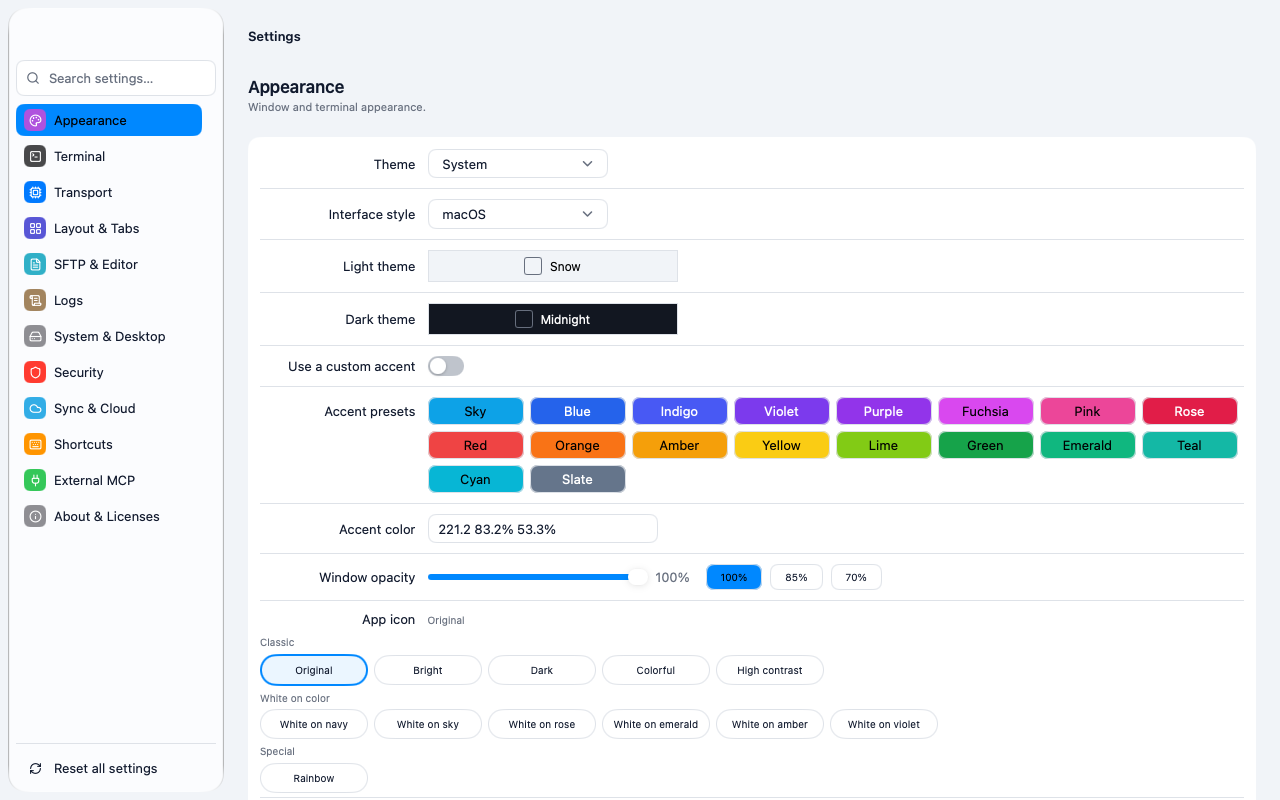
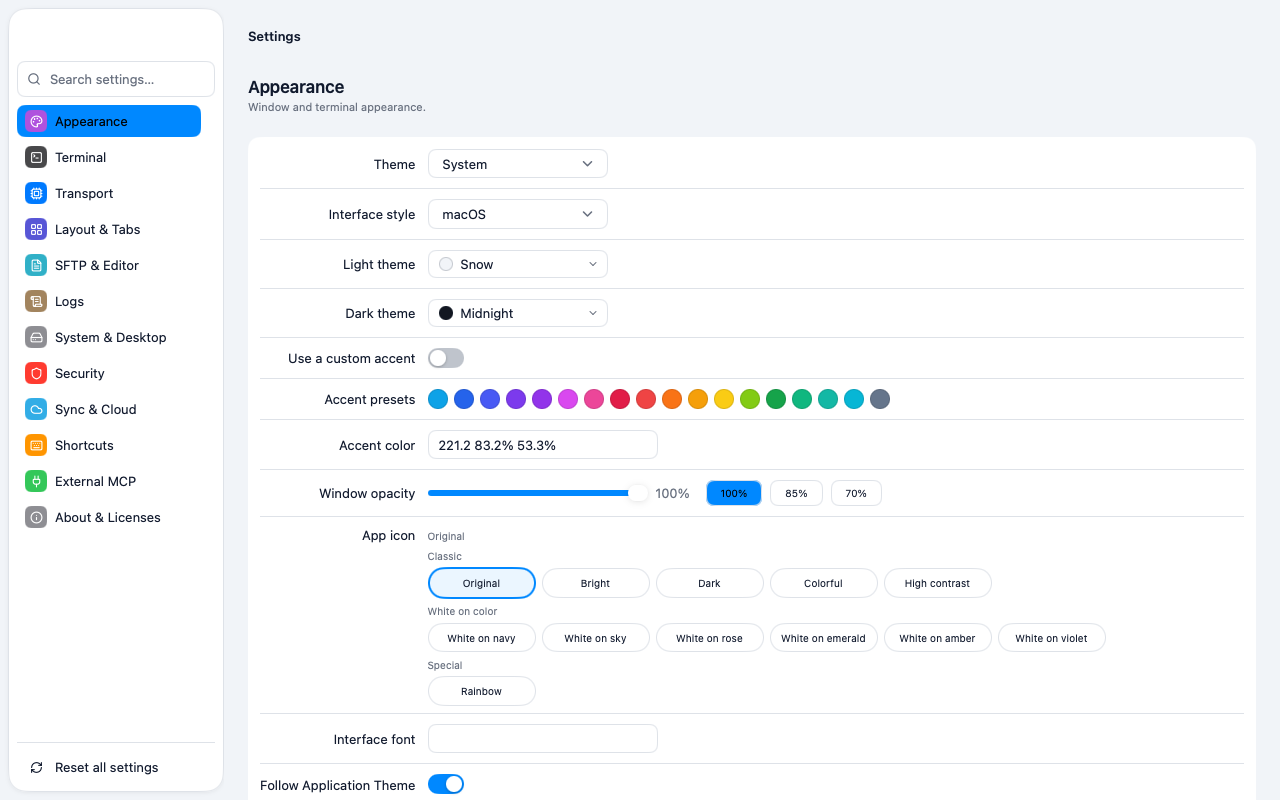
fix(ui): draw the macOS style on the theme's colors
In a real window the system vibrancy follows the desktop's light or dark
mode, never the theme preset, so a light theme on a dark desktop got a
muddy sidebar and a gray title bar. The macOS window and sidebar now take
the theme's colors: the sidebar is a raised panel with a hairline and a
soft shadow, and its selected row a soft shade.

Settings' Appearance area gets macOS pickers through kit: color dots for
the accent presets, popup buttons with a swatch for the theme presets,
and the app icon gallery inside the form's control column. Classic is
unchanged.

diff --git a/ui/settings/appearance.go b/ui/settings/appearance.go
@@ -135,16 +135,8 @@ func presetPicker(c *ui.Context, state *PreferencesState, m locales.Messages, t 
 		current := selected
 		sel := ui.SelectBase(c, &current)
 		preset, _ := findPreset(presets, selected)
-		sel.Trigger.Width(250).Height(32).Padding(4, 8).
-			Border(1, t.Border).Background(uitheme.PresetBackground(preset)).Children(func() {
-			ui.Row(c).Gap(8).AlignItems(ui.Center).Children(func() {
-				ui.Box(c).Width(18).Height(18).Radius(3).
-					Background(uitheme.PresetBackground(preset)).
-					Border(1, t.TextMuted)
-				ui.Text(c, preset.Name).FontSize(kit.M(c).Font.Callout).
-					TextColor(uitheme.PresetForeground(preset))
-			})
-		})
+		kit.PreviewTrigger(c, sel.Trigger, preset.Name,
+			uitheme.PresetBackground(preset), uitheme.PresetForeground(preset))
 		sel.Popup(func(panel ui.Element) {
 			panel.Padding(4).Background(t.Surface).Border(1, t.Border)
 			ui.Scroll(c).Height(260).Width(280).Children(func() {
@@ -202,15 +194,8 @@ func accentPicker(c *ui.Context, state *PreferencesState, m locales.Messages, t 
 				preset := preset
 				selected := settings.Appearance.AccentMode == domain.AccentCustom &&
 					strings.EqualFold(settings.Appearance.AccentColor, preset.HSL)
-				swatch := ui.Button(c, accentName(m, preset.Name)).Width(96).Height(28).
-					Background(uitheme.AccentColor(preset.HSL)).
-					TextColor(uitheme.AccentText(preset.HSL))
-				if selected {
-					swatch = swatch.Border(2, t.Text)
-				} else {
-					swatch = swatch.Border(1, t.Border)
-				}
-				if swatch.Clicked() {
+				if kit.Swatch(c, accentName(m, preset.Name), uitheme.AccentColor(preset.HSL),
+					uitheme.AccentText(preset.HSL), selected).Clicked() {
 					state.Update(func(s *domain.Settings) {
 						s.Appearance.AccentMode = domain.AccentCustom
 						s.Appearance.AccentColor = preset.HSL
@@ -263,24 +248,28 @@ func opacityPicker(c *ui.Context, state *PreferencesState, m locales.Messages, t
 // with its artwork above its name. Without artwork the tiles show names only.
 func iconPicker(c *ui.Context, state *PreferencesState, m locales.Messages, t *ui.Theme,
 	settings domain.Settings) {
-	fieldRow(c, state, m, t, domain.FieldAppIcon, m.SettingsAppIcon(), func() {
-		ui.Text(c, iconVariantName(m, settings.Appearance.AppIcon)).
-			FontSize(kit.M(c).Font.Caption).TextColor(t.TextMuted)
-	})
-	ui.Column(c).Gap(6).FillWidth().Children(func() {
-		for _, group := range domaintheme.IconGroupOrder() {
-			ui.Text(c, iconGroupName(m, group)).FontSize(kit.M(c).Font.Caption).TextColor(t.TextMuted)
-			ui.Row(c).Wrap().Gap(6).FillWidth().Children(func() {
-				for _, variant := range domaintheme.IconVariantsInGroup(group) {
-					variant := variant
-					if iconTile(c, t, iconVariantName(m, variant.ID), state.iconThumb(variant.ID),
-						variant.ID == settings.Appearance.AppIcon).Clicked() {
-						state.Update(func(s *domain.Settings) { s.Appearance.AppIcon = variant.ID })
-						c.Invalidate()
+	kit.FormRowDetail(c, m.SettingsAppIcon(), func() {
+		ui.Row(c).Gap(8).AlignItems(ui.Center).Children(func() {
+			ui.Text(c, iconVariantName(m, settings.Appearance.AppIcon)).
+				FontSize(kit.M(c).Font.Caption).TextColor(t.TextMuted)
+			resetField(c, state, m, domain.FieldAppIcon)
+		})
+	}, func() {
+		ui.Column(c).Gap(6).FillWidth().Children(func() {
+			for _, group := range domaintheme.IconGroupOrder() {
+				ui.Text(c, iconGroupName(m, group)).FontSize(kit.M(c).Font.Caption).TextColor(t.TextMuted)
+				ui.Row(c).Wrap().Gap(6).FillWidth().Children(func() {
+					for _, variant := range domaintheme.IconVariantsInGroup(group) {
+						variant := variant
+						if iconTile(c, t, iconVariantName(m, variant.ID), state.iconThumb(variant.ID),
+							variant.ID == settings.Appearance.AppIcon).Clicked() {
+							state.Update(func(s *domain.Settings) { s.Appearance.AppIcon = variant.ID })
+							c.Invalidate()
+						}
 					}
-				}
-			})
-		}
+				})
+			}
+		})
 	})
 }
 

diff --git a/ui/kit/panels.go b/ui/kit/panels.go
@@ -208,12 +208,8 @@ func groupedForm(c *ui.Context, title, description string, body func()) ui.Eleme
 		}
 		// The group stands out from the page by its fill: the surface's,
 		// or a shade where a preset's surface is the page's own color.
-		fill := t.Surface
-		if fill == t.Background {
-			fill = Muted(t)
-		}
 		ui.Column(c).FillWidth().Radius(M(c).Radius.Card-4).Padding(groupPaddingY, groupPaddingX).
-			Background(fill).Children(func() {
+			Background(Raised(t)).Children(func() {
 			groupRows = append(groupRows, 0)
 			defer func() { groupRows = groupRows[:len(groupRows)-1] }()
 			ui.Form(c, body).FillWidth().Gap(groupGap)
@@ -279,4 +275,73 @@ func FormToggle(c *ui.Context, label string, value *bool, accessory func()) bool
 		}
 	})
 	return changed
+}
+
+// FormRowDetail is a FormRow whose summary sits beside its label and whose
+// detail, such as a gallery of choices, follows it: below the row in
+// Classic, under the summary in the macOS style's control column, so the
+// grouped form keeps its two columns.
+func FormRowDetail(c *ui.Context, label string, summary, detail func()) {
+	if !CurrentStyle().Native() {
+		FormRow(c, label, summary)
+		detail()
+		return
+	}
+	FormRow(c, label, func() {
+		ui.Column(c).Gap(8).FillWidth().MinWidth(0).Children(func() {
+			summary()
+			detail()
+		})
+	})
+}
+
+// Swatch is one choice of a color, named name: a labeled button in that
+// color in Classic, with text in its text color; a color dot in the macOS
+// style, as its accent picker, marked with a white dot when chosen.
+func Swatch(c *ui.Context, name string, color, text ui.Color, chosen bool) ui.Element {
+	t := c.Theme()
+	if !CurrentStyle().Native() {
+		swatch := ui.Button(c, name).Width(96).Height(28).Background(color).TextColor(text)
+		if chosen {
+			return swatch.Border(2, t.Text)
+		}
+		return swatch.Border(1, t.Border)
+	}
+	const size float32 = 20
+	swatch := ui.ButtonBase(c).Label(name).Tooltip(name).Size(size, size).Radius(M(c).Radius.Pill).
+		Background(color).Border(1, ui.RGB(0, 0, 0).Alpha(0.12)).Center().Shrink(0)
+	if swatch.Hovered() {
+		swatch.Border(2, color.Mix(t.Text, 0.3))
+	}
+	swatch.Children(func() {
+		if chosen {
+			ui.Box(c).Size(6, 6).Radius(M(c).Radius.Pill).Background(ui.RGB(255, 255, 255))
+		}
+	})
+	return swatch
+}
+
+// PreviewTrigger draws a popup's trigger that previews a palette: filled
+// with its background and named in its foreground in Classic; a plain popup
+// button with a dot of the background in the macOS style.
+func PreviewTrigger(c *ui.Context, trigger ui.Element, name string, background, foreground ui.Color) {
+	t := c.Theme()
+	if !CurrentStyle().Native() {
+		trigger.Width(250).Height(32).Padding(4, 8).Border(1, t.Border).Background(background).Children(func() {
+			ui.Row(c).Gap(8).AlignItems(ui.Center).Children(func() {
+				ui.Box(c).Width(18).Height(18).Radius(3).Background(background).Border(1, t.TextMuted)
+				ui.Text(c, name).FontSize(M(c).Font.Callout).TextColor(foreground)
+			})
+		})
+		return
+	}
+	trigger.Width(180).Height(M(c).Control.Regular).Padding(0, 8, 0, 10).Radius(M(c).Radius.Control).
+		Border(1, t.Border).Background(t.Surface).Children(func() {
+		ui.Row(c).FillWidth().Gap(8).AlignItems(ui.Center).Children(func() {
+			ui.Box(c).Size(14, 14).Radius(M(c).Radius.Pill).Background(background).
+				Border(1, t.Text.Alpha(0.2)).Shrink(0)
+			ui.Text(c, name).FontSize(M(c).Font.Body).TextColor(t.Text).SingleLine().Grow(1).MinWidth(0)
+			IconSized(c, icons.ChevronDown, M(c).Icon.Small).TextColor(t.TextMuted)
+		})
+	})
 }

diff --git a/ui/layout/layout_test.go b/ui/layout/layout_test.go
@@ -50,41 +50,33 @@ func TestWorkLayoutWithoutAPanelShowsOnlyThePanes(t *testing.T) {
 	}
 }
 
-// TestAVibrantMacOSWindowShowsItsMaterialBesideAnOpaquePage checks the
-// main window's frame over a vibrancy: the title bar is clear so the
-// window's material shows, while the page and a terminal stay opaque. A
-// Classic window, or one with no vibrancy, is opaque everywhere.
-func TestAVibrantMacOSWindowShowsItsMaterialBesideAnOpaquePage(t *testing.T) {
-	for _, tc := range []struct {
-		style   kit.Style
-		vibrant bool
-		clear   bool
-	}{
-		{kit.MacOS, true, true},
-		{kit.MacOS, false, false},
-		{kit.Classic, true, false},
-	} {
-		for _, work := range []bool{false, true} {
-			kit.SetStyle(tc.style)
-			tt := ui.NewTester(func(c *ui.Context) {
-				WindowFrame(c, FrameOptions{Opaque: true, Vibrant: true},
-					func() { ui.Row(c).FillWidth().Height(36) },
-					func() {
-						if work {
-							WorkLayout(c, WorkSlots{Panes: func() { ui.Text(c, "panes") }})
-							return
-						}
-						HomeLayout(c, HomeSlots{Sidebar: func() {}, Content: func() { ui.Text(c, "page") }})
-					})
-			}, 800, 600)
-			tt.SetVibrancy(tc.vibrant)
-			tt.Frame()
-			img := tt.Image()
-			if bar := img.RGBAAt(400, 18).A; (bar == 0) != tc.clear {
-				t.Errorf("%s vibrancy=%v: title bar alpha %d, want clear=%v", tc.style.ID(), tc.vibrant, bar, tc.clear)
-			}
-			if page := img.RGBAAt(500, 400).A; page != 255 {
-				t.Errorf("%s vibrancy=%v work=%v: page alpha %d, want opaque", tc.style.ID(), tc.vibrant, work, page)
+// TestTheMainWindowIsOpaqueInEveryStyleEvenOverAVibrancy checks the main
+// window's frame: the title bar, the home page, and a terminal take the
+// theme's colors in both styles, whether or not the window has a vibrancy.
+func TestTheMainWindowIsOpaqueInEveryStyleEvenOverAVibrancy(t *testing.T) {
+	for _, style := range []kit.Style{kit.MacOS, kit.Classic} {
+		for _, vibrant := range []bool{false, true} {
+			for _, work := range []bool{false, true} {
+				kit.SetStyle(style)
+				tt := ui.NewTester(func(c *ui.Context) {
+					WindowFrame(c, FrameOptions{Opaque: true, Vibrant: true},
+						func() { ui.Row(c).FillWidth().Height(36) },
+						func() {
+							if work {
+								WorkLayout(c, WorkSlots{Panes: func() { ui.Text(c, "panes") }})
+								return
+							}
+							HomeLayout(c, HomeSlots{Sidebar: func() {}, Content: func() { ui.Text(c, "page") }})
+						})
+				}, 800, 600)
+				tt.SetVibrancy(vibrant)
+				tt.Frame()
+				img := tt.Image()
+				for _, at := range [][2]int{{400, 18}, {100, 300}, {500, 400}} {
+					if a := img.RGBAAt(at[0], at[1]).A; a != 255 {
+						t.Errorf("%s vibrancy=%v work=%v: alpha %d at %v, want opaque", style.ID(), vibrant, work, a, at)
+					}
+				}
 			}
 		}
 	}

diff --git a/ui/kit/style_test.go b/ui/kit/style_test.go
@@ -73,27 +73,30 @@ func contrastTo(a, b ui.Color) int {
 	return d(a.R, b.R) + d(a.G, b.G) + d(a.B, b.B)
 }
 
-func TestFillClearsTheWindowOverItsVibrancyOrPaintsItsBackground(t *testing.T) {
+// TestMacOSFillsTheWindowAndSidebarWithTheThemeOverAVibrancy keeps the
+// window's own colors: a system vibrancy follows the desktop's light or dark
+// mode, not the theme, so the macOS style never clears to it.
+func TestMacOSFillsTheWindowAndSidebarWithTheThemeOverAVibrancy(t *testing.T) {
 	SetStyle(MacOS)
 	t.Cleanup(func() { SetStyle(nil) })
-	under := ui.RGB(0, 255, 0)
 	theme := &ui.Theme{Background: ui.RGB(255, 0, 0), Surface: ui.RGB(0, 0, 255), Text: ui.RGB(0, 0, 0)}
-	for _, vibrant := range []bool{true, false} {
+	for _, tc := range []struct {
+		role SurfaceRole
+		want ui.Color
+	}{
+		{SurfaceWindow, theme.Background},
+		{SurfaceSidebar, theme.Surface},
+	} {
 		tt := ui.NewTester(func(c *ui.Context) {
 			c.SetTheme(theme)
-			c.Root().Background(under)
-			Fill(c, ui.Column(c).Size(40, 40), SurfaceWindow)
+			c.Root().Background(ui.RGB(0, 255, 0))
+			Fill(c, ui.Column(c).Size(40, 40), tc.role)
 		}, 80, 80)
-		tt.SetVibrancy(vibrant)
+		tt.SetVibrancy(true)
 		tt.Frame()
 		got := tt.Image().RGBAAt(20, 20)
-		want := theme.Background
-		if vibrant {
-			// Clear: what is under it shows.
-			want = under
-		}
-		if got.R != want.R || got.G != want.G || got.B != want.B {
-			t.Fatalf("vibrancy=%v: window pixel = %v, want %v", vibrant, got, want)
+		if got.R != tc.want.R || got.G != tc.want.G || got.B != tc.want.B || got.A != 255 {
+			t.Fatalf("role %d: pixel = %v, want the theme's %v", tc.role, got, tc.want)
 		}
 	}
 }

diff --git a/app/appearance_test.go b/app/appearance_test.go
@@ -185,7 +185,10 @@ func TestWindowManagerAppliesTheInterfaceStyleEachFrame(t *testing.T) {
 	}
 }
 
-func TestWindowManagerShowsTheSidebarVibrancyOnlyForAnOpaqueMacOSWindow(t *testing.T) {
+// TestWindowManagerShowsNoVibrancyInEitherStyle keeps every window on the
+// theme's colors: the system material follows the desktop's light or dark
+// mode, not the theme.
+func TestWindowManagerShowsNoVibrancyInEitherStyle(t *testing.T) {
 	host := &fakeWindowHost{}
 	manager := newWindowManager(host, fakeConfirmer{}, nil, nil,
 		func() func(*ui.Context) { return func(*ui.Context) {} },
@@ -193,20 +196,9 @@ func TestWindowManagerShowsTheSidebarVibrancyOnlyForAnOpaqueMacOSWindow(t *testi
 	stored := kit.StyleMacOS
 	manager.SetStyleProvider(func() kit.Style { return kit.StyleFor(stored) })
 	main := manager.OpenMain().(*fakeWindow)
-	if main.vibrancy != mygo.VibrancySidebar {
-		t.Fatalf("a new macOS window's vibrancy = %q, want sidebar", main.vibrancy)
-	}
-
-	// A see-through window would show the desktop through the material too.
-	manager.SetOpacity(0.8)
 	if main.vibrancy != mygo.VibrancyNone {
-		t.Fatalf("vibrancy at 80%% opacity = %q, want none", main.vibrancy)
+		t.Fatalf("a new macOS window's vibrancy = %q, want none", main.vibrancy)
 	}
-	manager.SetOpacity(1)
-	if main.vibrancy != mygo.VibrancySidebar {
-		t.Fatalf("vibrancy back at full opacity = %q, want sidebar", main.vibrancy)
-	}
-
 	stored = kit.StyleClassic
 	manager.SyncStyle()
 	if main.vibrancy != mygo.VibrancyNone {

diff --git a/ui/kit/style.go b/ui/kit/style.go
@@ -85,9 +85,11 @@ func (classic) Material(role SurfaceRole) Material {
 	return Material{Kind: MaterialOpaque}
 }
 
-// macOS is the macOS 27 style: the window's vibrancy behind a floating glass
-// sidebar, Liquid Glass bars and overlays, and a hierarchy drawn with fills
-// more than with lines.
+// macOS is the macOS 27 style: a floating sidebar panel, Liquid Glass bar
+// buttons and overlays, and a hierarchy drawn with fills more than with
+// lines. The window and its sidebar take the theme's own colors rather than
+// the system's vibrancy, which follows the desktop's light or dark mode and
+// never the theme preset's colors.
 type macOS struct{}
 
 func (macOS) ID() string       { return StyleMacOS }
@@ -96,9 +98,7 @@ func (macOS) Native() bool     { return true }
 
 func (macOS) Material(role SurfaceRole) Material {
 	switch role {
-	case SurfaceWindow:
-		return Material{Kind: MaterialVibrant}
-	case SurfaceSidebar, SurfaceBar, SurfaceOverlay:
+	case SurfaceBar, SurfaceOverlay:
 		return Material{Kind: MaterialGlass, Paint: glass.Glass{Style: glass.Regular}}
 	case SurfaceScrollEdge:
 		return Material{Kind: MaterialGlass, Paint: glass.ScrollEdge{}}

diff --git a/ui/layout/layout.go b/ui/layout/layout.go
@@ -123,12 +123,15 @@ func nativeHome(c *ui.Context, slots HomeSlots) {
 	})
 }
 
-// floatingSidebar is the macOS style's sidebar: a glass panel inset by
-// CardGap from the window's edges below top, width wide with the inset.
+// floatingSidebar is the macOS style's sidebar: a panel inset by CardGap
+// from the window's edges below top, width wide with the inset, lifted off
+// the window by a hairline and a soft shadow.
 func floatingSidebar(c *ui.Context, width, top, gap float32, children func()) {
+	t := c.Theme()
 	ui.Column(c).Width(width).FillHeight().Shrink(0).Padding(top, 0, CardGap, CardGap).Children(func() {
-		panel := ui.Column(c).Fill().MinHeight(0).Padding(8).Gap(gap).Radius(SidebarRadius).Clip()
-		kit.Fill(c, panel, kit.SurfaceSidebar).Children(children)
+		panel := ui.Column(c).Fill().MinHeight(0).Padding(8).Gap(gap).Radius(SidebarRadius).Clip().
+			Border(1, t.Border).Shadow(0, 1, 4, 0, ui.RGB(0, 0, 0).Alpha(0.06)).Background(kit.Raised(t))
+		panel.Children(children)
 	})
 }
 

diff --git a/ui/kit/kit.go b/ui/kit/kit.go
@@ -14,6 +14,18 @@ import (
 // or a selected list row when the window has no focus.
 func Muted(t *ui.Theme) ui.Color { return t.Background.Mix(t.Text, 0.05) }
 
+// Raised is the fill of a panel that stands out from the page, as a grouped
+// form or the macOS style's sidebar: the theme's surface, or a shade where a
+// preset's surface is too close to the page's color to tell apart.
+func Raised(t *ui.Theme) ui.Color {
+	d := func(x, y uint8) int { return max(int(x)-int(y), int(y)-int(x)) }
+	s, b := t.Surface, t.Background
+	if d(s.R, b.R)+d(s.G, b.G)+d(s.B, b.B) < 16 {
+		return b.Mix(t.Text, 0.06)
+	}
+	return s
+}
+
 // Subtle is the fill of a hovered ghost control.
 func Subtle(t *ui.Theme) ui.Color { return t.Background.Mix(t.Text, 0.08) }
 

diff --git a/ui/kit/nav.go b/ui/kit/nav.go
@@ -104,7 +104,9 @@ func NavItemWith(c *ui.Context, role NavRole, key, icon, label string, active bo
 		item.Height(r.height)
 	}
 	strong, subtle := Strong(t), Subtle(t)
-	if role == NavSettings {
+	// Over the macOS style's raised sidebar a row is shaded from the panel's
+	// own fill rather than the page's.
+	if role == NavSettings || CurrentStyle().Native() {
 		strong, subtle = t.Text.Alpha(0.08), t.Text.Alpha(0.04)
 	}
 	switch {
